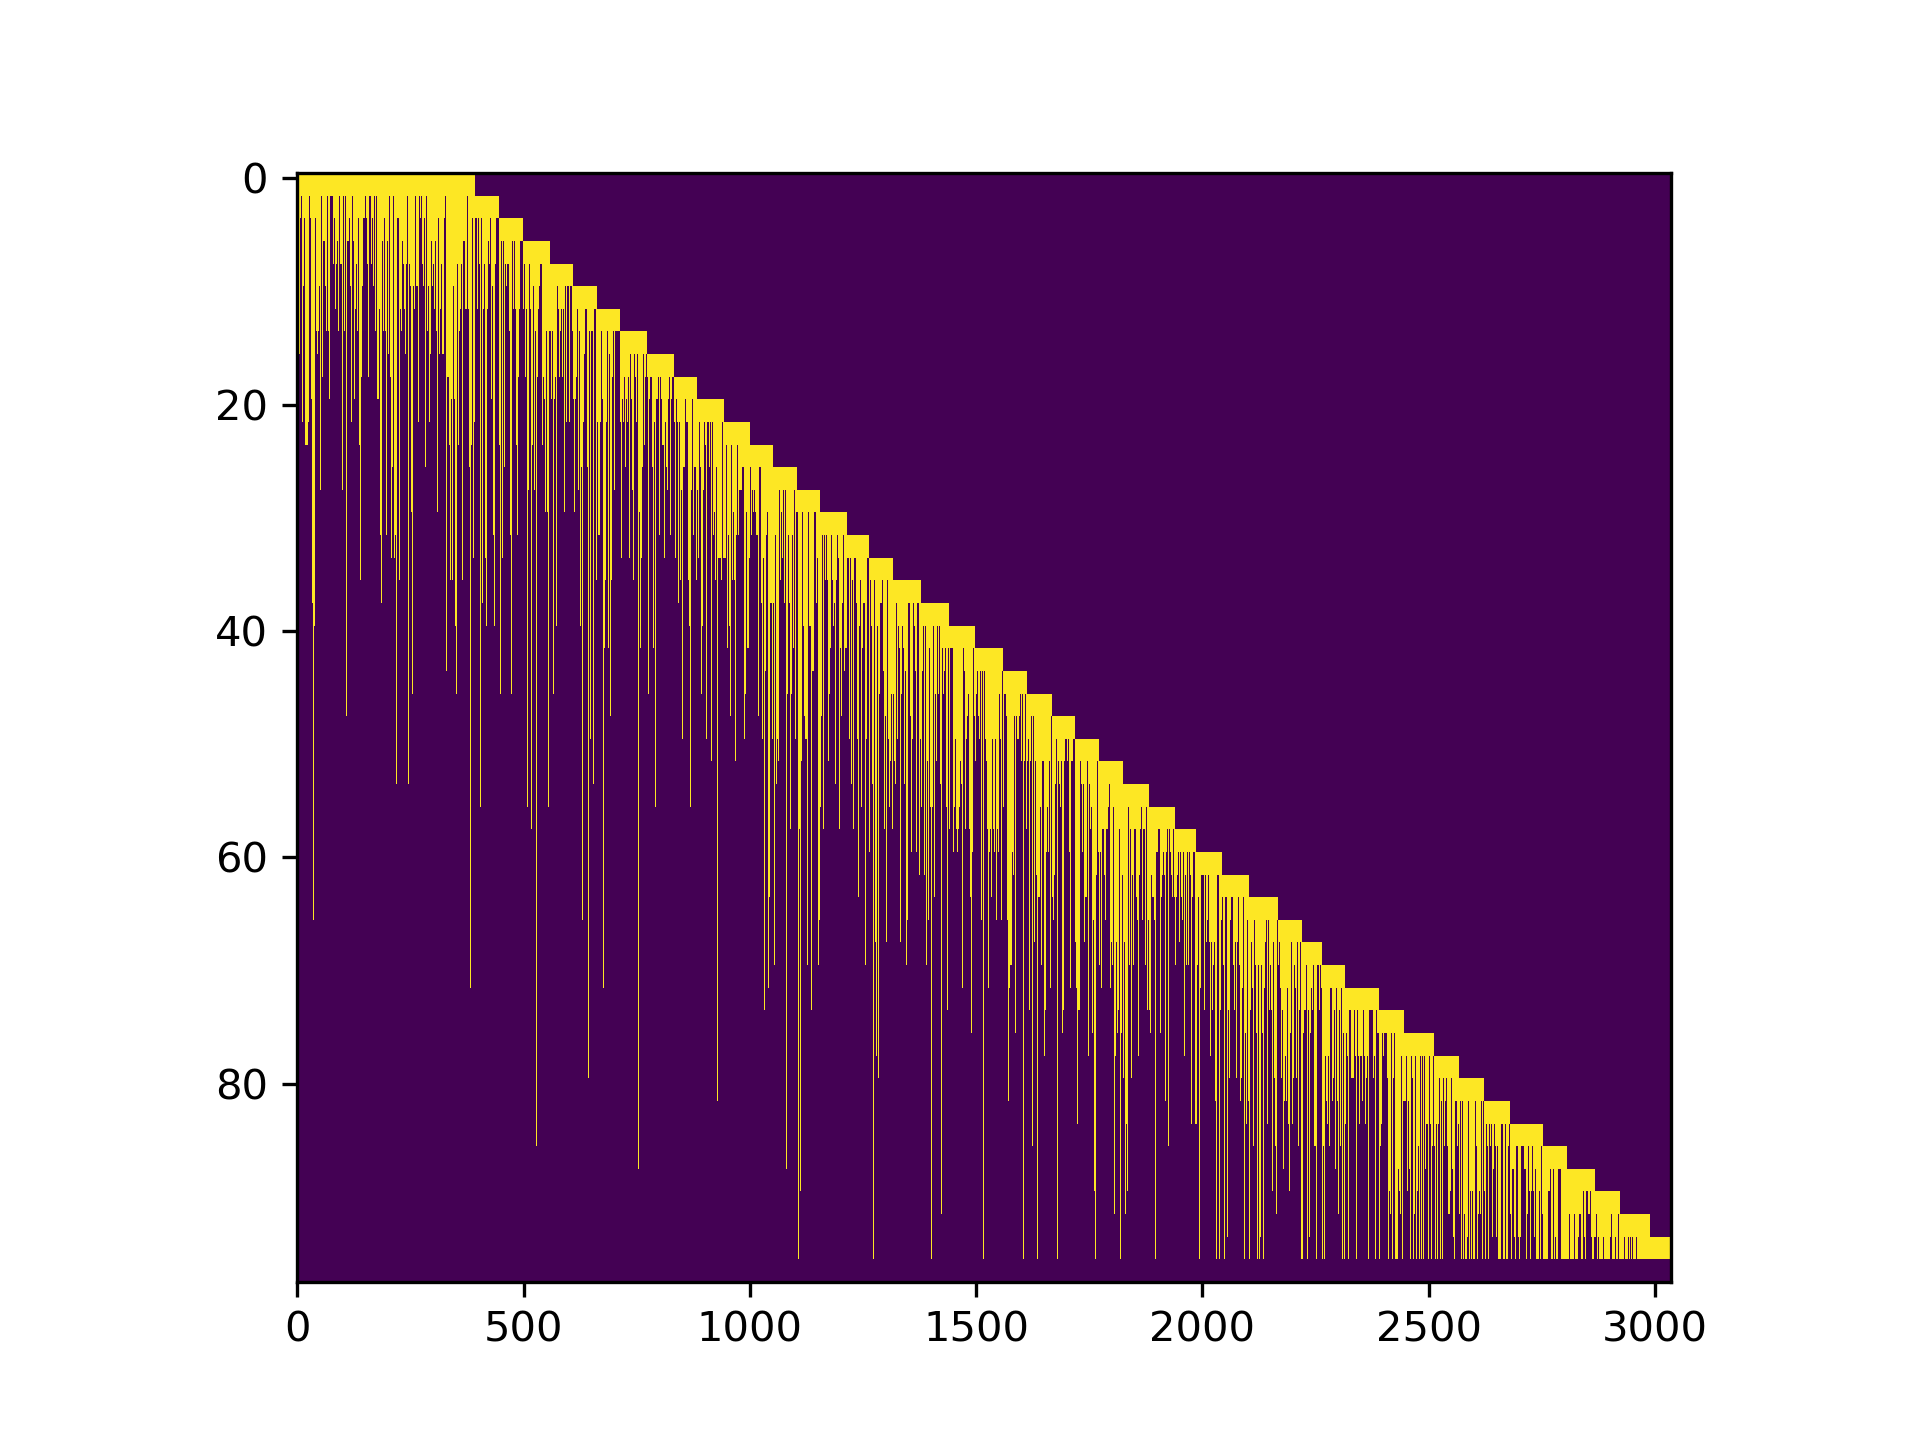
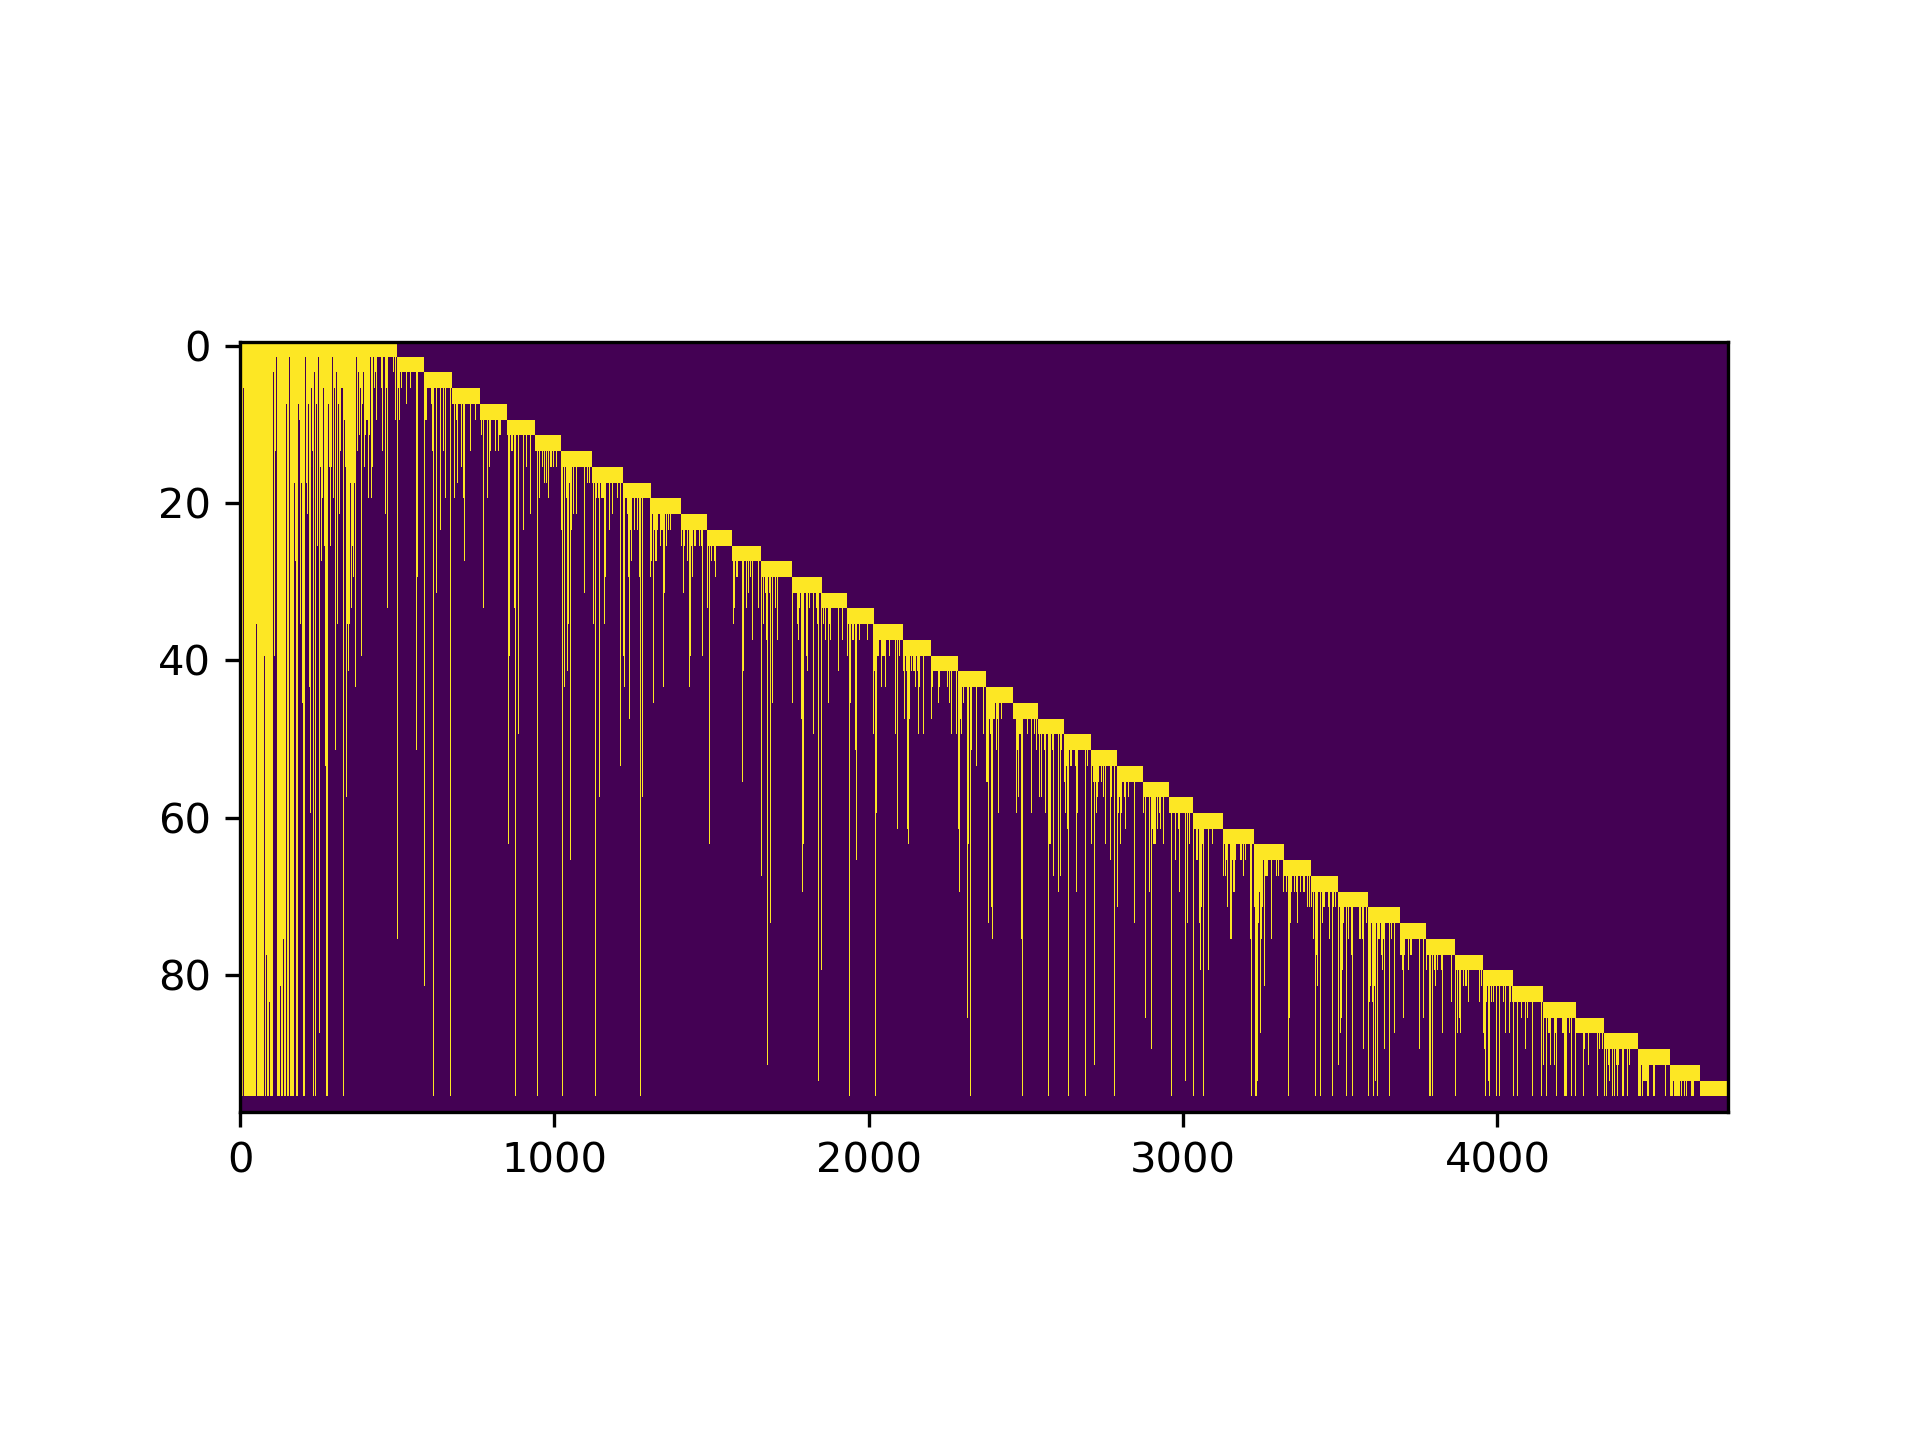
implemented ex 5

Changed region(s): [[0.0625, 0.0938, 0.9062, 0.9375]]

diff --git a/Assignment_2/fundamental_matrix.py b/Assignment_2/fundamental_matrix.py
@@ -3,7 +3,7 @@ import cv2 as cv
 import glob
 from scipy.linalg import null_space
 from matplotlib import pyplot as plt
-from scipy import spatial
+from structure_from_motion import structure_from_motion
 
 
 # Since we use Python, instead of using VLFeat we perform feature matching with ORB and BFMatcher. The corresponding
@@ -238,7 +238,16 @@ def find_matches(image_1, image_2, return_descriptors=False):
     """
     # Initiate ORB detector and BFMatcher
     orb = cv.ORB_create()
-    bf = cv.BFMatcher(cv.NORM_HAMMING, crossCheck=True)
+    # bf = cv.BFMatcher(cv.NORM_HAMMING2, crossCheck=True)
+
+    FLANN_INDEX_LSH = 6
+    index_params = dict(algorithm=FLANN_INDEX_LSH,
+                        table_number=6,  # 12
+                        key_size=12,  # 20
+                        multi_probe_level=1)  # 2
+
+    search_params = dict(checks=2000)  # or pass empty dictionary
+    flann = cv.FlannBasedMatcher(index_params, search_params)
 
     # find the keypoints with ORB
     keypoints_1, descriptors_1 = orb.detectAndCompute(image_1, None)
@@ -246,7 +255,7 @@ def find_matches(image_1, image_2, return_descriptors=False):
 
     # Match descriptors.
     # queryIdx refers to keypoints_1, trainIdx refers to keypoints_2
-    _matches = bf.match(descriptors_1, descriptors_2)
+    _matches = flann.match(descriptors_1, descriptors_2)
 
     if not return_descriptors:
         # Sort them in the order of their distance
@@ -501,8 +510,17 @@ def chaining(image_data):
     information_previous_iteration = None
     number_saved_keypoints = 0
 
+    FLANN_INDEX_LSH = 6
+    index_params = dict(algorithm=FLANN_INDEX_LSH,
+                        table_number=6,  # 12
+                        key_size=12,  # 20
+                        multi_probe_level=1)  # 2
+
+    search_params = dict(checks=2000)  # or pass empty dictionary
+    flann = cv.FlannBasedMatcher(index_params, search_params)
+
     # Initiate BFMatcher
-    bf = cv.BFMatcher(cv.NORM_HAMMING, crossCheck=True)
+    # bf = cv.BFMatcher(cv.NORM_HAMMING2, crossCheck=True)
 
     for i in np.arange(0, number_of_images - 1):
         print("Iteration", i)
@@ -530,23 +548,31 @@ def chaining(image_data):
 
             keypoints_previous, descriptors_previous, indices_previous = information_previous_iteration
 
-            # print("Loose points?")
-            # print(len(indices_previous))
-            # print(np.unique(indices_previous).shape[0])
+            print("Loose points?")
+            print(len(indices_previous))
+            print(np.unique(indices_previous).shape[0])
 
-            _matches = bf.match(descriptors_1, descriptors_previous)
+            _matches = flann.match(descriptors_1, descriptors_previous)
             _matches = sorted(_matches, key=lambda x: x.distance)
-            survived_indices = [match.queryIdx for match in _matches]
-            survived_pvm_indices = [match.trainIdx for match in _matches]
+            survived_indices = np.unique([match.queryIdx for match in _matches])
+            survived_pvm_indices, unique_indices = np.unique([match.trainIdx for match in _matches], return_index=True)
+            survived_indices = survived_indices[unique_indices]
+            # current_pvm_indices = indices_previous[np.where(survived_pvm_indices < len(indices_previous))[0]]
             current_pvm_indices = indices_previous[survived_pvm_indices]
 
-            for j in np.arange(len(current_pvm_indices)):
+            print("How many survived keypoints")
+            print(len(survived_indices))
+            print(np.unique(survived_indices).shape[0])
+            print(len(survived_pvm_indices))
+            print(np.unique(current_pvm_indices).shape[0])
+
+            for j in np.arange(len(survived_indices)):
                 pvm_idx = current_pvm_indices[j]
                 keypoint_idx = survived_indices[j]
                 point_view_matrix[i][:2, pvm_idx] = keypoints_1_np[keypoint_idx].T
 
-            # print("AFTER KP: Number of simultaneous keypoints")
-            # print(np.where(point_view_matrix[i][1] > 0)[0].shape[0])
+            print("AFTER KP: Number of simultaneous keypoints")
+            print(np.where(point_view_matrix[i][1] > 0)[0].shape[0])
 
             new_keypoints = np.delete(keypoints_1_np, survived_indices, axis=0)
             number_additional_kp = new_keypoints.shape[0]
@@ -554,26 +580,26 @@ def chaining(image_data):
             for j, index in enumerate(new_indices):
                 point_view_matrix[i][:2, index] = new_keypoints[j].T
 
-            # print("AFTER NEW KP: Number of simultaneous keypoints")
-            # print(np.where(point_view_matrix[i][1] > 0)[0].shape[0])
-            # print("How many official new keypoints")
-            # print(number_additional_kp)
+            print("AFTER NEW KP: Number of simultaneous keypoints")
+            print(np.where(point_view_matrix[i][1] > 0)[0].shape[0])
+            print("How many official new keypoints")
+            print(number_additional_kp)
 
             number_saved_keypoints += number_additional_kp
 
             indices_next_iteration = np.append(current_pvm_indices, new_indices, axis=0)
 
-            # print("How many inofficial new keypoints")
-            # print(len(matches) - len(survived_indices) == number_additional_kp)
+            print("How many inofficial new keypoints")
+            print(len(matches) - len(survived_indices) == number_additional_kp)
 
             print("END: Number of simultaneous keypoints")
             print(np.where(point_view_matrix[i][1] > 0)[0].shape[0])
-            # print("indices for next iteration")
-            # print(indices_next_iteration.shape[0])
+            print("indices for next iteration")
+            print(indices_next_iteration.shape[0])
 
         else:
             point_view_matrix[i][:2, :keypoints_1_np.shape[0]] = keypoints_1_np.T
-            number_saved_keypoints += len(matches)
+            number_saved_keypoints += keypoints_1_np.shape[0]
             indices_next_iteration = np.arange(keypoints_1_np.shape[0])
 
         information_previous_iteration = keypoints_2_np, descriptors_2, indices_next_iteration
@@ -617,5 +643,9 @@ if __name__ == "__main__":
 
     # experiments_exercise_3(image_data)
 
-    point_view_matrix = chaining(image_data)
-    visualize_point_view_matrix(point_view_matrix)
+    pvm = np.loadtxt("PointViewMatrix.txt")
+
+    # point_view_matrix = chaining(image_data)
+    # visualize_point_view_matrix(point_view_matrix)
+
+    structure_from_motion(pvm, 3)

diff --git a/Assignment_2/procrustes.py b/Assignment_2/procrustes.py
@@ -1,0 +1,111 @@
+import numpy as np
+
+
+# Taken from https://stackoverflow.com/questions/18925181/procrustes-analysis-with-numpy
+def procrustes(X, Y, scaling=True, reflection='best'):
+    """
+    A port of MATLAB's `procrustes` function to Numpy.
+
+    Procrustes analysis determines a linear transformation (translation,
+    reflection, orthogonal rotation and scaling) of the points in Y to best
+    conform them to the points in matrix X, using the sum of squared errors
+    as the goodness of fit criterion.
+
+        d, Z, [tform] = procrustes(X, Y)
+
+    Inputs:
+    ------------
+    X, Y
+        matrices of target and input coordinates. they must have equal
+        numbers of  points (rows), but Y may have fewer dimensions
+        (columns) than X.
+
+    scaling
+        if False, the scaling component of the transformation is forced
+        to 1
+
+    reflection
+        if 'best' (default), the transformation solution may or may not
+        include a reflection component, depending on which fits the data
+        best. setting reflection to True or False forces a solution with
+        reflection or no reflection respectively.
+
+    Outputs
+    ------------
+    d
+        the residual sum of squared errors, normalized according to a
+        measure of the scale of X, ((X - X.mean(0))**2).sum()
+
+    Z
+        the matrix of transformed Y-values
+
+    tform
+        a dict specifying the rotation, translation and scaling that
+        maps X --> Y
+
+    """
+
+    n, m = X.shape
+    ny, my = Y.shape
+
+    muX = X.mean(0)
+    muY = Y.mean(0)
+
+    X0 = X - muX
+    Y0 = Y - muY
+
+    ssX = (X0 ** 2.).sum()
+    ssY = (Y0 ** 2.).sum()
+
+    # centred Frobenius norm
+    normX = np.sqrt(ssX)
+    normY = np.sqrt(ssY)
+
+    # scale to equal (unit) norm
+    X0 /= normX
+    Y0 /= normY
+
+    if my < m:
+        Y0 = np.concatenate((Y0, np.zeros(n, m - my)), 0)
+
+    # optimum rotation matrix of Y
+    A = np.dot(X0.T, Y0)
+    U, s, Vt = np.linalg.svd(A, full_matrices=False)
+    V = Vt.T
+    T = np.dot(V, U.T)
+
+    if reflection is not 'best':
+
+        # does the current solution use a reflection?
+        have_reflection = np.linalg.det(T) < 0
+
+        # if that's not what was specified, force another reflection
+        if reflection != have_reflection:
+            V[:, -1] *= -1
+            s[-1] *= -1
+            T = np.dot(V, U.T)
+
+    traceTA = s.sum()
+
+    if scaling:
+
+        # optimum scaling of Y
+        b = traceTA * normX / normY
+
+        # standarised distance between X and b*Y*T + c
+        d = 1 - traceTA ** 2
+
+        # transformed coords
+        Z = normX * traceTA * np.dot(Y0, T) + muX
+
+    else:
+        b = 1
+        d = 1 + ssY / ssX - 2 * traceTA * normY / normX
+        Z = normY * np.dot(Y0, T) + muX
+
+    # transformation matrix
+    if my < m:
+        T = T[:my, :]
+    c = muX - b * np.dot(muY, T)
+
+    return d, Z, (T, b, c)

diff --git a/Assignment_2/structure_from_motion.py b/Assignment_2/structure_from_motion.py
@@ -1,0 +1,86 @@
+import numpy as np
+import cv2 as cv
+from scipy.linalg import orthogonal_procrustes
+from procrustes import procrustes
+
+from mpl_toolkits.mplot3d import Axes3D
+import matplotlib.pyplot as plt
+
+import open3d as o3d
+
+
+def structure_from_motion(point_view_matrix, block_size):
+    """
+    
+    :param point_view_matrix: 
+    :param block_size: 
+    :return: 
+    """
+    print("SFM starting")
+    print("............")
+    m, n = int(point_view_matrix.shape[0] / 2), point_view_matrix.shape[1]
+
+    world_coordinates = np.zeros((n, 3))
+    point_view_matrix = point_view_matrix.reshape(m, 2, n)
+
+    print(point_view_matrix.shape[0])
+    print(block_size - 1)
+
+    for i in np.arange(point_view_matrix.shape[0] - (block_size - 1)):
+        sparse_block = point_view_matrix[i:block_size + i, :, :].reshape(2 * block_size, n)
+        dense_indices = np.all(sparse_block, axis=0)
+        filled_wc_indices = np.all(world_coordinates, axis=1)
+        # new_indices = np.where(np.invert(filled_wc_indices[dense_indices])[0])
+        new_indices = np.invert(filled_wc_indices[dense_indices])
+
+        if np.any(new_indices):
+            D = sparse_block[:, dense_indices]
+            D = D - np.mean(D, axis=1).reshape(2 * block_size, 1)
+
+            U, W, Vt = np.linalg.svd(D, full_matrices=False)
+            V = Vt.T
+
+            W = np.diag(W)[:3, :3]
+            Vt = V[:, :3]
+
+            S = np.sqrt(W) @ Vt.T
+            S[0, :] = -S[0, :]
+            S[1, :] = -S[1, :]
+
+            if not np.any(filled_wc_indices):
+                world_coordinates[dense_indices, :] = S.T
+
+            else:
+                X = world_coordinates[np.logical_and(filled_wc_indices, dense_indices), :]
+                Y = S[:, np.invert(new_indices)].T
+
+                d, Z, transformation = procrustes(X, Y)
+                R, s, t = transformation
+
+                _S = s * S.T @ R + t
+
+                _transformed_points = _S[new_indices, :]
+                world_coordinates[np.logical_and(dense_indices, np.invert(filled_wc_indices)), :] = _transformed_points
+
+    world_coordinates = world_coordinates[filled_wc_indices, :]
+
+    # # Plot
+    fig = plt.figure()
+    ax = fig.add_subplot(111, projection='3d')
+
+    x = world_coordinates[:, 0]
+    y = world_coordinates[:, 1]
+    z = world_coordinates[:, 2]
+
+    ax.scatter(x, y, z, c='r', marker='o')
+    ax.view_init(30, 120)
+
+    ax.set_xlabel('X Label')
+    ax.set_ylabel('Y Label')
+    ax.set_zlabel('Z Label')
+
+    plt.show()
+
+    cloud = o3d.PointCloud()
+    cloud.points = o3d.Vector3dVector(world_coordinates)
+    o3d.draw_geometries([cloud])
